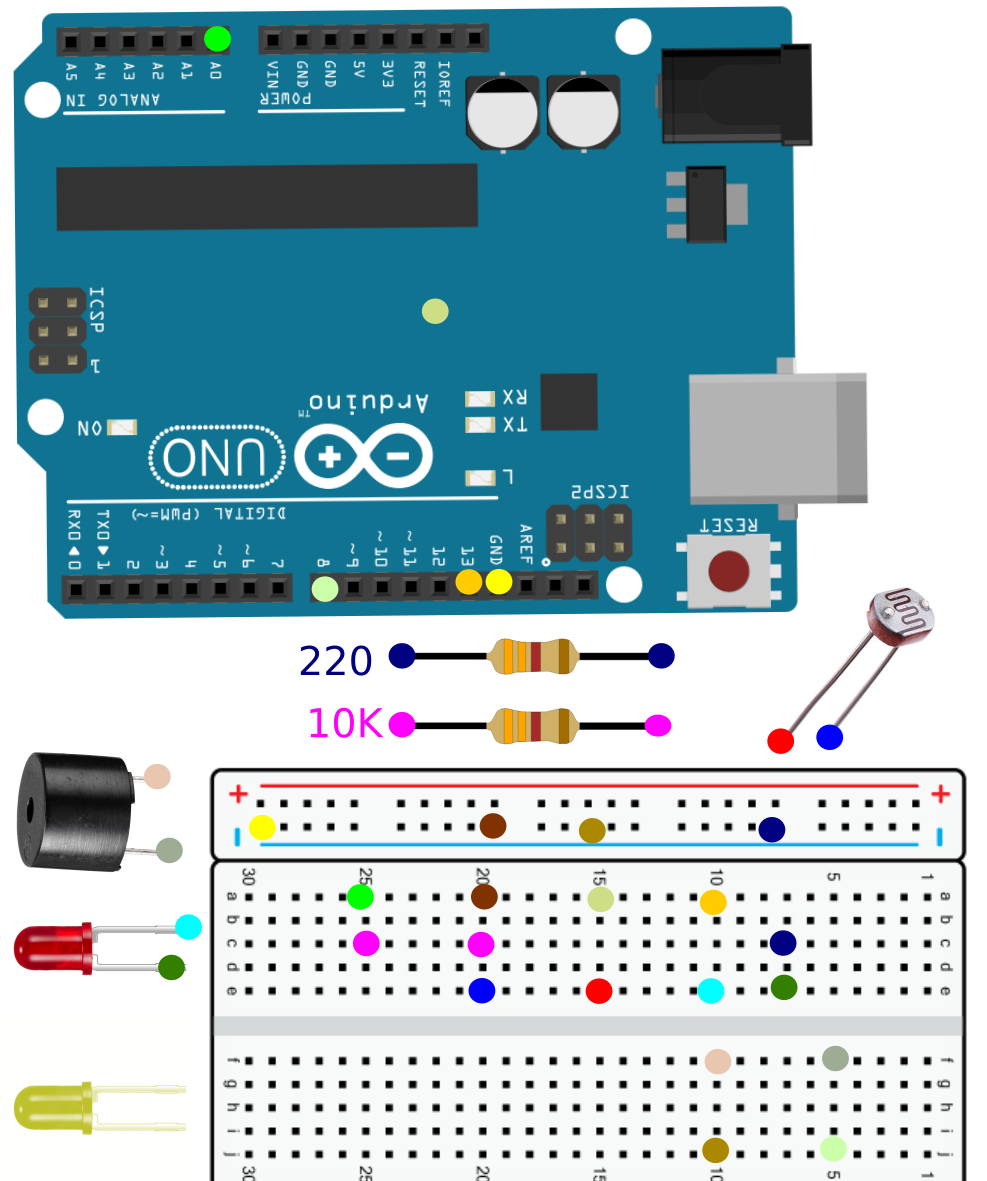
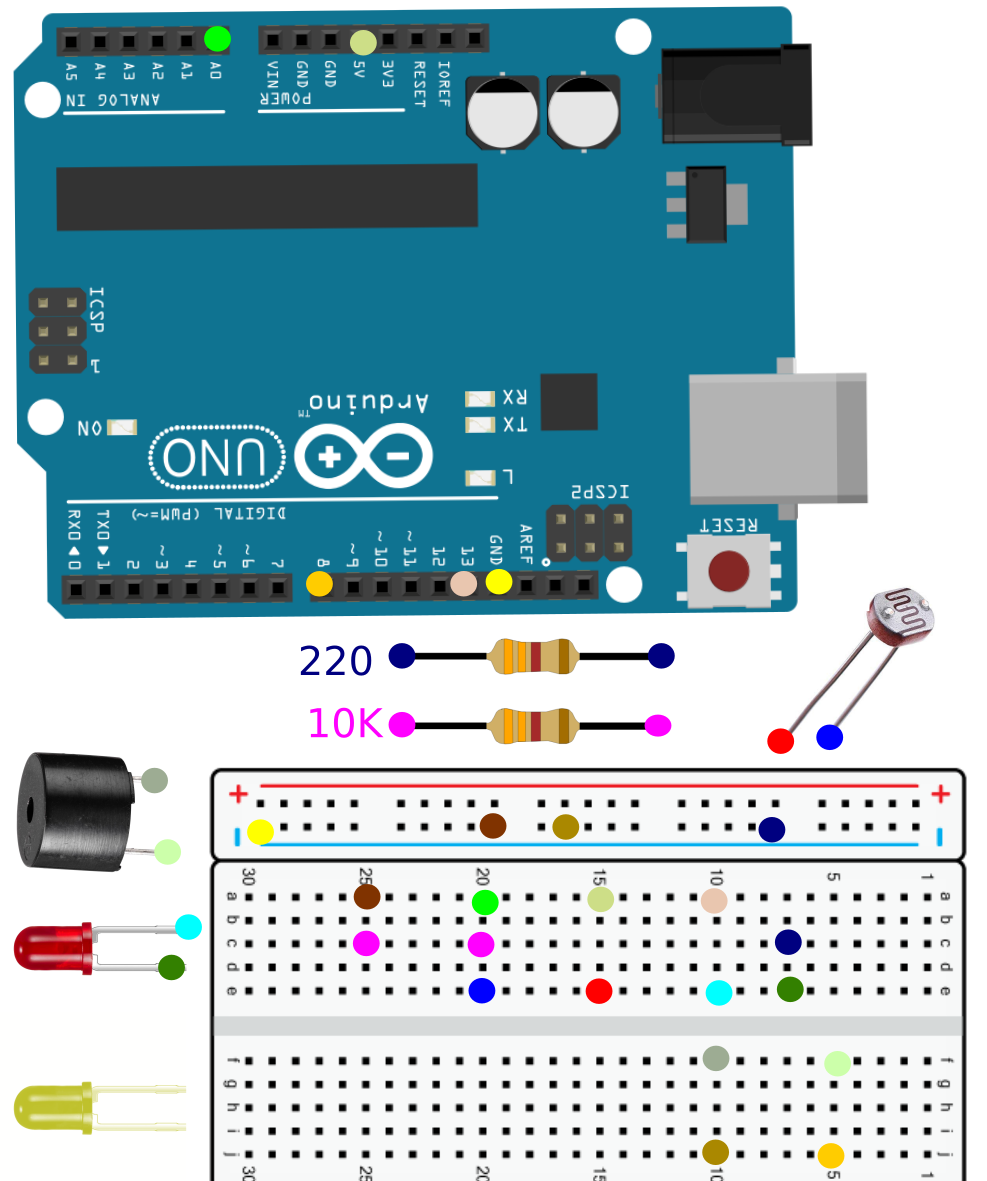
H - fixed some project content

diff --git a/pages/100_🤺_Challenge_One.py b/pages/100_🤺_Challenge_One.py
@@ -1,16 +1,91 @@
 import streamlit as st
 from data_base import notify_discord_feedback
 from utils.challenge_save_data import save_challenge_submission, get_challenge_submission
+from PIL import Image
+from utils.utils import hover_zoom_at_cursor
+
+challenge_circuit_layout = Image.open("graphics/challenge_one_circuit.png")
 # At the top of the page, load their work
 existing_data = get_challenge_submission(st.session_state.current_page)
 
-st.title(st.session_state.current_page)
 st.write(f"Current Status: **{existing_data['status'].upper()}**")
+import streamlit as st
+from PIL import Image
+
+status = existing_data.get('status')
+feedback = existing_data.get('admin_feedback')
+
+if status == 'rejected':
+    st.error(f"### ❌ Revision Needed\n**Admin Feedback:** {feedback}")
+elif status == 'pending':
+    st.info("🕒 This challenge is currently pending admin review.")
+elif status == 'approved':
+    st.success("✅ This challenge has been approved!")
+
+# --- CHALLENGE HEADER ---
+st.title("🕵♂ Challenge 1 - The Case of the Sleeping LED!")
+
+st.markdown("""
+Calling all **Junior Detectives**! 🕵♀🔍
+
+Someone has built a circuit, but the code has gone missing! Your job is to write a script that wakes up the system.
+
+**The Mission:**
+1. Look at the **Circuit Blueprint** below.
+2. Write a code that makes the **Red Warning Light** (LED) blink on and off like a heartbeat! ❤⚡
+3. Submit your secret code in the box at the bottom for the **Head Detective** to check!
+""")
+
+# --- MYSTERY CIRCUIT SECTION ---
+col1, col2 = st.columns(2)
+
+with col1:
+    st.markdown("""
+### 🧱 Mystery Blueprint
+*Follow these coordinates to see the crime scene!*
+
+##### 💡 :red[Warning Light] (LED)
+*   **Long leg:** row 10 column e
+*   **Short leg:** row 7 column e
+
+##### ⚡ The Helper (220 Ohm Resistor)
+*   **Leg 1:** row 7 column c
+*   **Leg 2:** **- rail** (Ground Rail)
+
+##### 🧶 The Wires
+1. **Pin 13** ➡ row 10 column a
+2. **Pin GND** ➡ **- rail / Ground Rail**
+    """)
+
+with col2:
+    st.info("""
+### 📝 The Goal
+Make the LED turn **ON** for 1 second, then **OFF** for 1 second. It should keep doing this forever so everyone knows the castle is safe! 🏰✨
+    """)
+
+    hover_zoom_at_cursor(challenge_circuit_layout, width=300, height=300, zoom_factor=2.0, key="circuit1")
+
+
+# --- NAVIGATION ---
+st.markdown("---")
+st.markdown("#### ⬅ Back to the Workshop")
 
 # The auto-saving text area
+template = """void setup() {
+  // put your setup code here, to run once:
+}
+
+void loop() {
+  // put your main code here, to run repeatedly:
+}"""
+
+user_data = existing_data['content']
+default_text = user_data if user_data else template
+
+st.markdown("### 📤 Submit Your Evidence")
 st.text_area(
-    "Enter your task results:",
-    value=existing_data['content'],
+    """## Put your sketch here""",
+    value=default_text,
     key="challenge_draft_input",
     height=300,
     on_change=lambda: save_challenge_submission(
@@ -19,8 +94,7 @@ st.text_area(
         status='draft'
     )
 )
-
-if st.button("Final Submit for Review", type="primary"):
+if st.button("Submit to the Head Detective", type="primary"):
     save_challenge_submission(
         st.session_state.current_page, 
         st.session_state.challenge_draft_input, 
@@ -31,3 +105,10 @@ if st.button("Final Submit for Review", type="primary"):
         category="Challenge Submission", 
         message= st.session_state.challenge_draft_input)
     st.success("Work submitted! Admin will unlock the next challenge after review.")
+
+with st.expander("🔍 Need a Detective's Hint? (Click to open)"):
+    st.markdown("""
+    *   **Hint 1:** Remember to use 'pinMode' and 'OUTPUT' in your `setup` so the light knows it needs to glow! 💡
+    *   **Hint 2:** Use 'digitalWrite' and 'HIGH' to turn the light on and `LOW` to turn it off. 🕯
+    *   **Hint 3:** Don't forget a `delay(1000);` between your commands so the light has time to wake up and sleep! 😴
+    """)

diff --git a/pages/199_⚙_Admin.py b/pages/199_⚙_Admin.py
@@ -143,6 +143,47 @@ with tab3:
     else:
         st.info("No activity recorded yet.")
 
+    st.subheader("📊 Content Engagement Analysis")
+
+# Fetch logs from Postgres
+    logs_df = conn.query("SELECT page_name, stay_duration_seconds FROM activity_logs", ttl=0)
+
+    if not logs_df.empty:
+        # 1. Calculate Average & Total time per page
+        pages_to_ignore = ['Login', 'Register']
+        
+
+        filtered_df = logs_df[~logs_df['page_name'].str.contains('|'.join(pages_to_ignore), case=False, na=False)]  
+        engagement = logs_df.groupby("page_name")["stay_duration_seconds"].agg(['mean', 'count']).reset_index()
+        engagement.columns = ['Page Name', 'Avg Seconds', 'Total Visits']
+        
+        # Convert to minutes for easier reading
+        engagement['Avg Minutes'] = (engagement['Avg Seconds'] / 60).round(2)
+        
+        # 2. Sort by highest engagement
+        engagement = engagement.sort_values(by="Avg Minutes", ascending=False)
+
+        # 3. Display the Graph
+        st.write("### Which pages keep users busy the longest?")
+        st.bar_chart(
+            data=engagement, 
+            x="Page Name", 
+            y="Avg Minutes", 
+            color="#29b5e8" # A nice cyan-blue
+        )
+
+        # 4. Show the "Busiest" pages
+        col1, col2 = st.columns(2)
+        with col1:
+            top_page = engagement.iloc[0]
+            st.metric("Most Engaging Page", top_page['Page Name'], f"{top_page['Avg Minutes']} mins avg")
+        with col2:
+            most_visited = engagement.sort_values(by="Total Visits", ascending=False).iloc[0]
+            st.metric("Most Visited Page", most_visited['Page Name'], f"{int(most_visited['Total Visits'])} visits")
+    else:
+        st.info("Not enough data to generate engagement metrics yet.")
+
+
 with tab4:
     st.title("User Management")
     st.subheader("👥 Edit App Users")
@@ -220,8 +261,7 @@ with tab5:
     else:
         for _, row in pending.iterrows():
             with st.expander(f"Review: {row['user_id']} - {row['page_title']}"):
-                st.write("**Submitted Content:**")
-                st.info(row['content'])
+                st.code(f"{row['content']}", language="cpp")
                 
                 feedback_text = st.text_area("Admin Feedback / Revision Notes", key=f"feed_{row['submission_id']}")
                 

diff --git a/pages/08_💡_Project_Four.py b/pages/08_💡_Project_Four.py
@@ -7,7 +7,7 @@ from utils.utils import complete_step_and_continue, get_automated_pages
 # User-closable toast notification
 
 
-circuit_layout = Image.open("graphics/project_three_circuit.png")
+circuit_layout = Image.open("graphics/project_four_circuit.png")
 
 st.title("🚀Project 4 – Space Explorer Button Buzzer")
 
@@ -61,6 +61,7 @@ with circuit1:
 **Wires**
 
 - Arduino **pin 2** → row 14 **a**  
+- Arduino **Ground** → negative (-) rail
 - Wire from row 14 **j** → negative (–) rail
 
 ---
@@ -111,7 +112,7 @@ st.info("""
 
 💡 Tip 1: Make sure the buzzer’s + and – are in the correct holes!  
 💡 Tip 2: Follow the energy path like a rocket fuel line 🚀  
-💡 Tip 3: Press the button slowly and watch your spaceship come alive ⚡
+💡 Tip 3: If you want a louder buzzer remove the resistor !!!!⚡
 """)
 
 st.info("""

diff --git a/data_base.py b/data_base.py
@@ -103,12 +103,11 @@ def notify_discord_new_request(username):
         print(f"Failed to send Discord notification: {e}")
 
 def log_final_activity():
+    import time
     """Logs the stay duration for the current page before the session ends."""
     if "start_time" in st.session_state and "current_page" in st.session_state:
         duration = round(time.time() - st.session_state.start_time, 2)
-        user = st.session_state.get("user_id", "Anonymous")
-        
-            
+        user = st.session_state.get("user_id", "Anonymous")   
 
 # Only log if they were actually on the page for a moment
         if duration > 2:

diff --git a/pages/10_💡_Project_Six.py b/pages/10_💡_Project_Six.py
@@ -45,8 +45,8 @@ with circuit_col1:
 🧶 3 Wires:
 
   Pin 5V to row 15 column a (Power to the 👁 )
-  Pin A0 to row 25 column a (Signal between LDR and Resistor)
-  Pin GND to row 20 column a (Ground for the Resistor)
+  Pin A0 to row 20 column a (Signal between LDR and Resistor)
+  Pin GND to row 25 column a (Ground for the Resistor)
                 """)
 
 with circuit_col2:
@@ -73,7 +73,7 @@ void loop() {
   Serial.println(oceanLight);
 
   if (oceanLight > 400) {
-    Serial.println("" +
+    Serial.println(""
           "☀ SURFACE: I see dolphins! 🐬");
   } 
   else {

diff --git a/pages/11_💡_Project_Seven.py b/pages/11_💡_Project_Seven.py
@@ -52,8 +52,9 @@ with circuit_col1:
 ##### 🧶 Wires:   
 1.  **Pin 13** to **row 10 column a** (Power for the light)
 2.  **Pin GND** to  **- rail ** (The ground path)
-3.  **- rail/ground** to row 20 column a
-4.  **Pin A0** to row 25 column a 
+3.  **- rail/ground** to row 25 column a
+4.  **Pin A0** to row 20 column a 
+5.  **Pin 5V** to row 15 column a
 """)
 with circuit_col2:
     st.info("🧠 **Engineer Tip:** We are combining an **INPUT** (the eye) with an **OUTPUT** (the light) to make a smart machine!")

diff --git a/pages/13_💡_Project_Nine.py b/pages/13_💡_Project_Nine.py
@@ -9,7 +9,7 @@ from utils.utils import hover_zoom_at_cursor, complete_step_and_continue, get_au
 # workshop_layout = Image.open("graphics/power_slot_build.png")
 
 # --- HEADER ---
-st.title("🛠 Project 11 - The Universal Power Slot")
+st.title("🛠 Project 9 - The Universal Power Slot")
 
 st.markdown("""
 Welcome to the Design Lab, **Senior Systems Engineer**! 👷♂👷♀

diff --git a/main.py b/main.py
@@ -70,7 +70,11 @@ if not allowed_pages:
 else:
     pg = st.navigation(allowed_pages)
     if pg:
+        from data_base import log_final_activity
+        import time
+        log_final_activity()
         st.session_state.current_page = pg.title
+        st.session_state.start_time = time.time()
         pg.run()
 
 # ---------------- 8. Sticky navbar ----------------

diff --git a/pages/05_💡_Project_One.py b/pages/05_💡_Project_One.py
@@ -103,13 +103,13 @@ with circuit1:
 
       * Short leg: row 6 column f
 
-    ##### Resistor: 
+    ##### Resistor 330 Ohms: 
       
       row 6 column h, row 10 column h
 
     ##### 2 Wires:   
         
-    1:  pin 8, row 6 column a
+    1:  Arduino pin 8, row 6 column a
 
     2:  Arduino pin GND, row 10 column f
 

diff --git a/pages/04_🚀_Getting_Started.py b/pages/04_🚀_Getting_Started.py
@@ -95,6 +95,8 @@ with res1:
 
     It slows electricity down so the LED does not break.
 
+    The little lines of color on the resistor tell you how strong it is!!
+
     Always use one with LEDs.
                 
             """)

diff --git a/pages/07_💡_Project_Three.py b/pages/07_💡_Project_Three.py
@@ -33,7 +33,7 @@ with circuit1:
 
 - Long leg → row 6, column **e**  
 - Short leg → row 6, column **f**  
-- Resistor → row 6 **h** → row 10 **h**
+- Resistor 330 Ohms → row 6 **h** → row 10 **h**
 
 **Wires**
 

diff --git a/pages/06_💡_Project_Two.py b/pages/06_💡_Project_Two.py
@@ -72,7 +72,7 @@ with circuit1:
       * Long leg: row 6 column e
       * Short leg: row 6 column f
 
-    ##### Resistor: 
+    ##### Resistor 330 Ohms: 
       * row 6 column h, row 10 column h
 
     ##### 2 Wires:   
